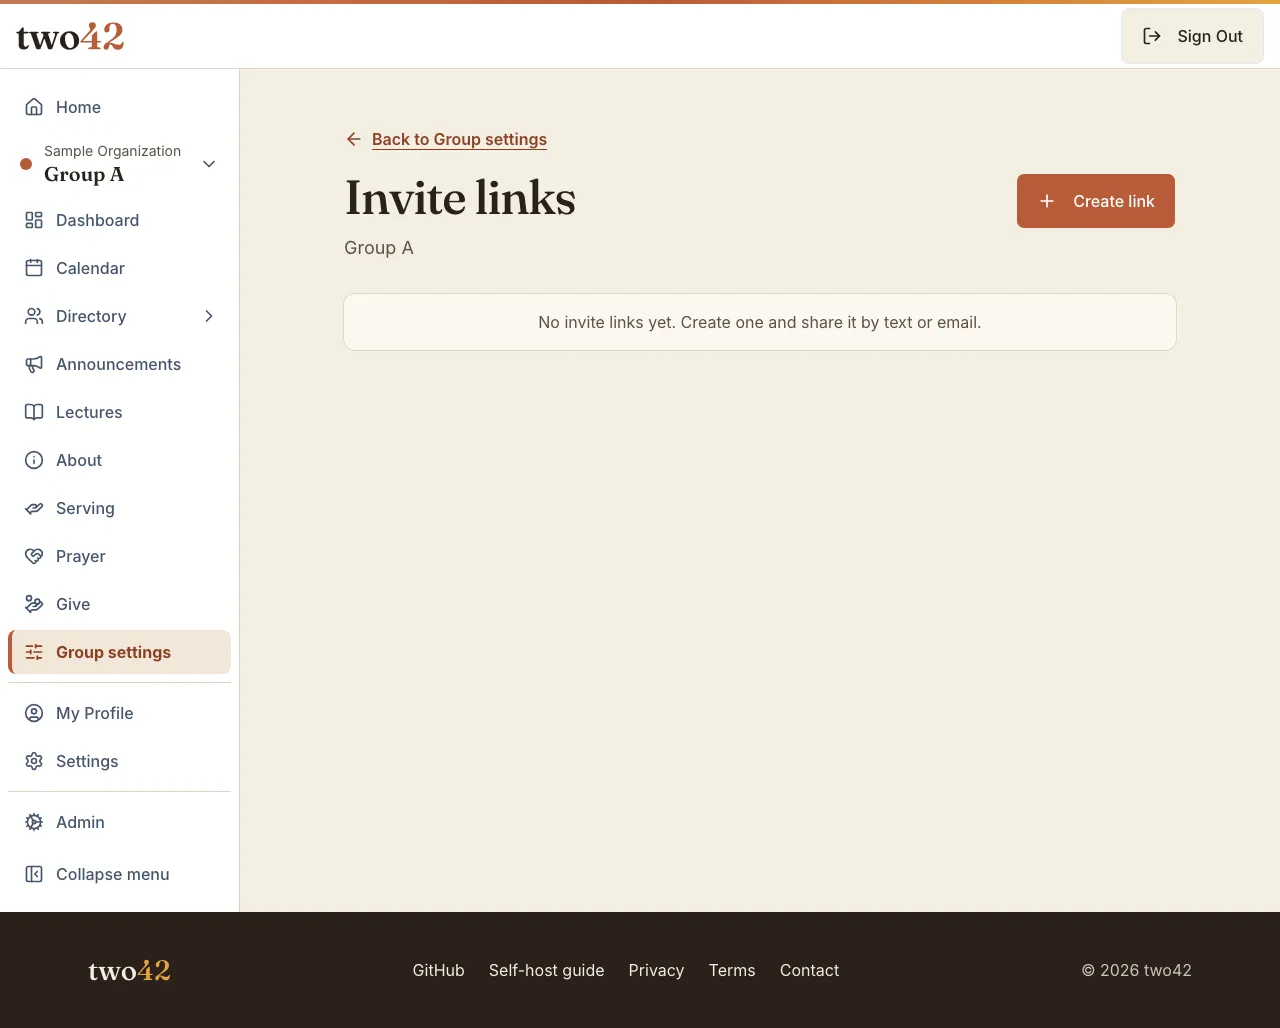
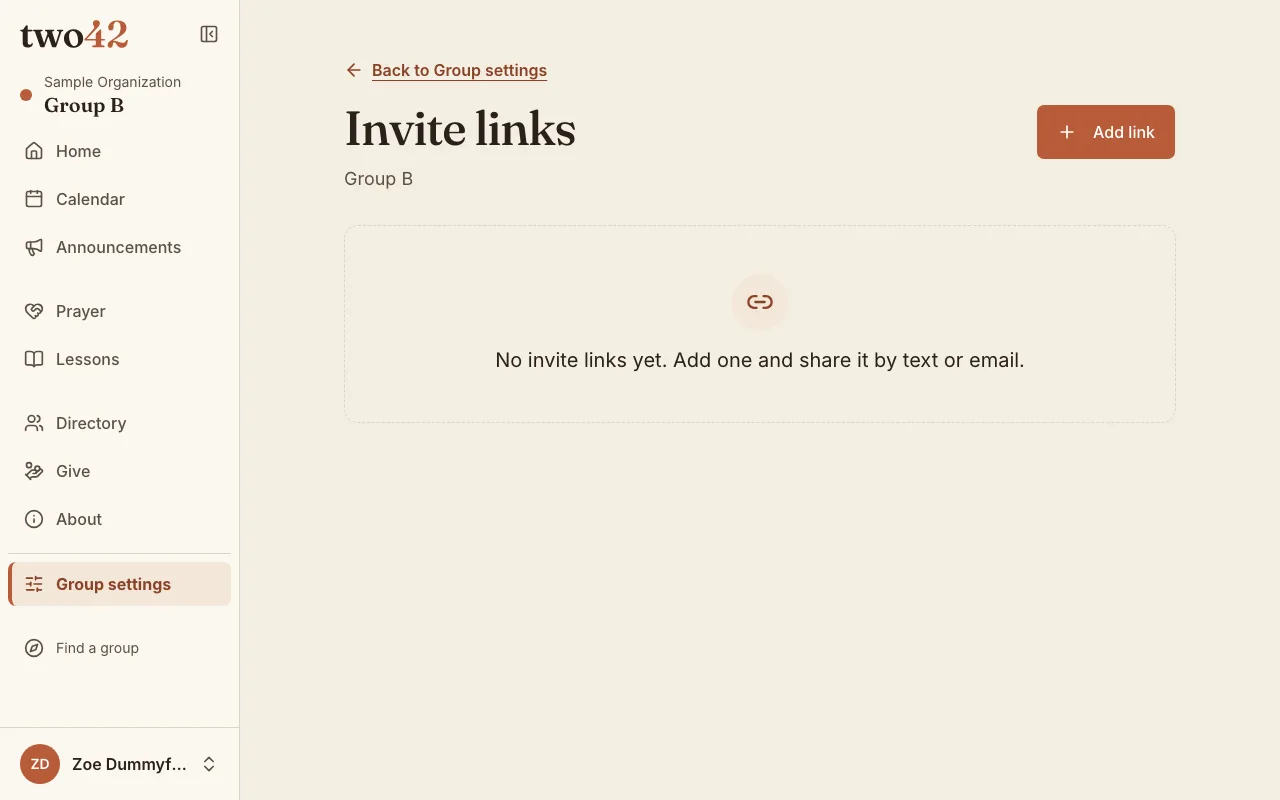
docs(design): describe the one-menu frame and record the page order
The Header section becomes the frame: the sidebar, the phone bar and drawer,
the account menu's rows and who sees each. The page order is recorded with
the reasons for it, and the invite-links image is retaken in the new frame.
The e2e README lists the operator persona and what the frame specs assert.

The account block keeps the full name as a tooltip, since a long name is
cut short beside the photo.

diff --git a/components/layout/AccountBlock.tsx b/components/layout/AccountBlock.tsx
@@ -47,7 +47,7 @@ export function AccountBlock({
     <DropdownMenu>
       <DropdownMenuTrigger
         aria-label={`Account menu. Signed in as ${account.name}`}
-        title={collapsed ? account.name : undefined}
+        title={account.name}
         render={
           <button
             type="button"

diff --git a/docs/design/DESIGN.md b/docs/design/DESIGN.md
@@ -97,7 +97,37 @@ A tenant may not change layout, typography, structural or semantic colors, or th
 
 Every page is built from the same frame, so moving between sibling pages never makes the layout jump.
 
-**Header** (`components/layout/Header.tsx`) is the same for everyone signed in, at every width: the wordmark on the left, one **Menu** button on the right. The menu (`AccountMenu`) holds the page navigation on phone — the member nav with its group switcher, or the admin or platform nav in those areas — then Privacy, Terms and Help, and the one **Sign out**. Desktop keeps the navigation in the sidebar. Signed in, there is no footer; Settings repeats Privacy, Terms and Help. Signed out, the header offers **Sign in** and the page ends with the footer.
+**The frame** is one sidebar and one account menu, the same for a member, a leader, a church admin and an operator.
+
+- **From `md` up** there is no top bar. The sidebar (`components/layout/Sidebar.tsx`) holds, top to bottom: the wordmark and the collapse control; the page list for where the person is; the account block. Collapsed, the wordmark becomes the 42 mark, the pages become their icons, and the account block becomes the photo or initials.
+- **On a phone** a top bar (`components/layout/Header.tsx`) holds the wordmark on the left and one **Menu** button on the right, and stays visible whether the drawer is open or closed. The drawer holds the same page list with the same account block at the bottom.
+- **The account block** (`components/layout/AccountBlock.tsx`) shows the person's photo, or their initials, and their name; an operator, who has no profile in any church, is shown by their sign-in address. Its menu lists, in this order: **My profile**, **Settings**, **Church admin** (church admins only), **Platform** (operators only), then **Help**, **Privacy**, **Terms**, then **Sign out**, set apart as the last item. A row is listed only when it opens for that person, so a pending person and an operator outside a church get Help, Privacy, Terms and Sign out. The menu opens on click, tap, Enter or Space and closes with Escape. It never opens on hover.
+- **Sign out** appears once in the frame, in that menu. Signed in, there is no footer; Settings repeats Help, Privacy and Terms.
+- **Church admin and Platform pages** use the same frame with their own page list, led by the way back to Home.
+- **The wordmark** takes a member to the page that lists all of their groups. Its link is at least 44px tall in the sidebar, as the 42 mark, and in the phone bar.
+- **Signed out**, the header offers **Sign in** at every width and the page ends with the footer.
+
+Who sees which row is decided on the server, from the signed-in person's own row (`components/layout/account.ts`, built in `app/layout.tsx`).
+
+**Page order** (`lib/groups/nav.ts`). Inside a group the pages are three clusters separated by spacing, with no section labels:
+
+1. Home, Calendar, Announcements
+2. Prayer, Lessons, Serving (Serving only for people on a serving team)
+3. Directory, Give, About
+
+Then, below a rule, **Group settings** for leaders only.
+
+- **One Home at a time.** Inside a group, Home is that group's Home. No list ever shows two items with the same label.
+- **The group block** sits above the pages and always names the group in text beside its color. For a member of one group it is a label. For a member of two or more it is the group switcher: its first row, **All groups**, opens the page that lists all of their groups, where the list is Home, Calendar and Directory.
+- **Find a group** is the last row of the group switcher for a member of two or more groups. For everyone else it is a quiet last row below the group's pages, because their group block does not open. It shows only when the church lets members find groups.
+
+Why this order:
+
+- What's happening comes first, because finding out what's on and when is the main reason people open the app.
+- Taking part comes next. Serving is last in its cluster, so the list differs by one row for people who aren't on a team.
+- Pages people look things up in come last, most-used first.
+- Managing the group sits apart from member pages.
+- People scan a new menu from the top and later rely on remembered positions, so the order should not change again without usage counts that justify it. Directory's place is the one to recheck once the pilot has counts.
 
 **Tab titles** come from `pageTitle()` (`lib/pageTitle.ts`) on every page: `{Page} · {Group} · {Church}` inside a group, `{Page} · {Church}` elsewhere signed in, `{Page} · two42` signed out.
 

diff --git a/e2e/README.md b/e2e/README.md
@@ -84,6 +84,7 @@ persona looks signed out.
 | `leadsB`    | zoe.dummyfield@example.test       | leads B           |
 | `householdPrimary` | henry.mockingham@example.test | A, B          |
 | `spouse`    | chloe.mockingham@example.test     | A, B              |
+| `operator`  | platform@local.dev                | none; no church and no profile |
 
 Group B and Group C are addressed by the fixed ids the seed inserts
 (`fixtures/personas.ts`). Group A is the migration-created group and has no
@@ -104,8 +105,8 @@ not covered here.
 | `group-discovery.spec.ts`            | A private group is listed for its members and tagged for the org admin but absent for everyone else, and its deep link stays a 404; the org switch removes Find a group and every other group; both restored in afterAll |
 | `admin-join-queue.spec.ts`           | A join request for a group the org admin does not lead is counted on the Admin overview and listed under its group on Admin › Groups; Decline (confirmed in the dialog) removes it and leaves the requester out; a second request approved gains the requester the group in their switcher and clears the overview count; the request and membership rows are deleted in afterAll |
 | `group-invite.spec.ts`               | A leader's invite link names the group and offers the signup form to a stranger until it is revoked, after which the same URL shows the one dead-link message and no form; a non-member gets a 404 on the invites page; the created link is revoked in afterAll |
-| `pending-group-access.spec.ts`       | A member moved back to pending gets a 404 on their group's pages and the pending card at Home; approved again, the same group's announcements show with no re-adding; set back to member in afterAll |
-| `signed-in-frame.spec.ts`            | At 390 a one-group member, a two-group member and the church admin get the same header — the wordmark and one Menu button, no footer — and the menu holds their nav, Privacy, Terms, Help and one Sign out; the group switcher is inside the menu; signed in, `/login` and `/forgot-password` land on Home |
+| `pending-group-access.spec.ts`       | A member moved back to pending gets a 404 on their group's pages and the pending card at Home; while pending the account menu offers only Help, Privacy, Terms and Sign out; approved again, the same group's announcements show with no re-adding and My profile and Settings are back; set back to member in afterAll |
+| `signed-in-frame.spec.ts`            | At 390 and at 1280 a one-group member, a two-group member, a leader, the church admin and the operator each get their own page list and an account menu with exactly their rows: Church admin is offered only to the church admin and Platform only to the operator, and a member is offered neither; at 390 the bar holds the wordmark and one Menu button and the group switcher is inside the menu, at 1280 there is no Menu button; a member of two groups has one Home inside a group and reaches all groups from the switcher's first row and the wordmark; nobody signed in has a footer; signed in, `/login` and `/forgot-password` land on Home |
 | `fund-pickers.spec.ts`               | A leader of two groups, a church admin and a member are offered only the current group's members in a fund's pickers, and nobody from another church; a church admin who can read an unlisted member isn't offered them; a fund in "Needs review" or "Needs a recipient" is off Give for a member, and a leader sees its status and can reach it; the rows created are removed in afterAll |
 | `about-leadership-picker.spec.ts`    | Edit About's leadership picker lists the group's members and no one from another group, and its save answers 409 for someone outside the group; nothing is written |
 | `team-lead-roster.spec.ts`           | A team lead who does not lead the group sees the team's members with Remove on non-leads only; Add person lists the group's members not on the team and no one from another group; an add and a remove go through; a group member not on the team sees no roster controls; with serving signups off the Serving page links the team for its lead, who still gets the roster, while that member sees no link and is sent back to the Serving page; the team is deleted in afterAll |
